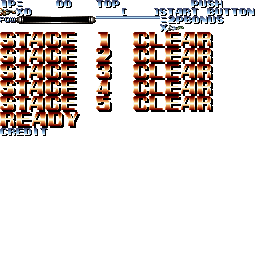
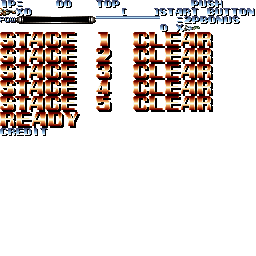
Update Module UI
Added lives  and converter int to str

Changed region(s): [[0.625, 0.0625, 0.8125, 0.125], [0.8438, 0.0625, 0.9375, 0.0938]]

diff --git a/Code/LastResortCode/ModuleUI.cpp b/Code/LastResortCode/ModuleUI.cpp
@@ -9,11 +9,12 @@
 #include "Player2.h"
 #include "ModuleInput.h"
 #include "ModuleFonts.h"
-#include "string.h"
+#include <stdio.h>
+
 
 ModuleUI::ModuleUI() {
-	lives_score_p1 = { 0,0,24,16};
-	live_score_p2 = { 160,16,24,16};
+	lives_score_p1 = { 0,0,32,16};
+	live_score_p2 = { 160,16,40,16};
 	pow = { 0,16,96,8};
 	push_p2= { 159,0,96,16 };
 	top = { 96,0,63,16};
@@ -25,12 +26,10 @@ bool ModuleUI::Start() {
 	LOG("Loading Module UI assets");
 	bool ret = true;
 	//Fonts-------------------------------------------------------------------------
-	App->fonts->Load("Assets/Fonts/blue_chars.png", "0123456789^[]ABCDEFGHIJKLMNOPQRSTUVWXYZ_-.,&#", 1); //font id = 0
+	App->fonts->Load("Assets/Fonts/blue_chars.png", "0123456789[]ABCDEFGHIJKLMNOPQRSTUVWXYZ_-.,&#", 1); //font id = 0
 	//textures----------------------------------------------------------------------
 	uiTex = App->textures->Load("Assets/UI.png");
-	//audios------------------------------------------------------------------------
 
-	//------------------------------------------------------------------------------
 	return ret;
 }
 
@@ -53,14 +52,44 @@ update_status  ModuleUI::PreUpdate() {
 }
 
 update_status ModuleUI::Update() {
+	str_score_p1 = new char[MAX_NUMBERS_SCORE];
+	str_score_p2 = new char[MAX_NUMBERS_SCORE];
+	str_lives_p1 = new char[1];
+	str_lives_p2 = new char[1];
 
+	lives_p1 = App->player1->lives;
+	snprintf(str_lives_p1, 4 * sizeof(str_lives_p1), "%d", lives_p1);
 
+	lives_p2 = App->player2->lives;
+	snprintf(str_lives_p2, 4 * sizeof(str_lives_p2), "%d", lives_p2);
 
+	score_p1 = App->player1->score;
+	snprintf(str_score_p1, 4 * sizeof(str_score_p1), "%d", score_p1);
+
+	score_p2 = App->player1->score;
+	snprintf(str_score_p2, 4 * sizeof(str_score_p2), "%d", score_p2);
+
+	//Static UI-----------------------------------------------------
 	App->render->Blit(uiTex, 16, 16, &lives_score_p1, 0.0f);
 	App->render->Blit(uiTex, 256, 16, &live_score_p2, 0.0f);
-	/*App->render->Blit(uiTex, 192, 16, &push_p2, 0.0f);*/
 	App->render->Blit(uiTex, 112, 16, &top, 0.0f);
 	App->render->Blit(uiTex, 24, 208, &pow, 0.0f);
 	App->render->Blit(uiTex, 184, 208, &pow, 0.0f);
+	/*App->render->Blit(uiTex, 192, 16, &push_p2, 0.0f);*/ //push button p2
+    //Variable UI----------------------------------------------------
+	App->fonts->BlitText(48, 24, 0, str_lives_p1);
+	App->fonts->BlitText(264, 24, 0, str_lives_p2);
+	App->fonts->BlitText(264, 24, 0, str_score_p1);
+	App->fonts->BlitText(264, 24, 0, str_score_p2);
+
+	delete[](str_score_p1);
+	delete[](str_score_p2);
+	delete[](str_lives_p1);
+	delete[](str_lives_p2);
+	str_score_p1 = nullptr;
+	str_score_p2 = nullptr;
+	str_lives_p1 = nullptr;
+	str_lives_p2 = nullptr;
+
 	return UPDATE_CONTINUE;
 }

diff --git a/Code/LastResortCode/ModulePlayer.cpp b/Code/LastResortCode/ModulePlayer.cpp
@@ -27,19 +27,15 @@ bool ModulePlayer::Start()
 	canMove = false;
 	canShoot = false;
 	isDying = false;
-
-	
 	shipAnimations = ShipAnimations::Initial;
 	start_time = SDL_GetTicks();
 	//textures-----------------------------------------------------------------------
 	PlayerTexture = App->textures->Load("Assets/SpaceShip_player1.png"); // arcade version																 
-	//audios-------------------------------------------------------------------------
-
 	//colliders----------------------------------------------------------------------
 	playerCol = App->collision->AddCollider({ position.x, position.y, 32, 12 }, colType, this);
 	//animations-----------------------------------------------------------------------
 	deathAnim.Reset();
-	FadeToBlackAlfa = 0;
+	
 	return ret;
 }
 
@@ -48,10 +44,17 @@ bool ModulePlayer::CleanUp()
 	LOG("Unloading player assets");
 	//textures------------------------------------------------------------------
 	App->textures->Unload(PlayerTexture);
-	//audios------------------------------------------------------------------
-
-
 	return true;
+}
+
+void ModulePlayer::Reappear() {
+	isShooting = false;
+	shoot = false;
+	canMove = false;
+	canShoot = false;
+	shipAnimations = ShipAnimations::Initial;
+	start_time = SDL_GetTicks();
+	deathAnim.Reset();
 }
 
 update_status ModulePlayer::PreUpdate()
@@ -66,6 +69,8 @@ update_status ModulePlayer::PreUpdate()
 
 update_status ModulePlayer::Update()
 {
+	//Timer----------------------------------------------------------------------------
+	current_time = SDL_GetTicks() - start_time; //Delete if it has not use
 	//Debug Modes----------------------------------------------------------------------
 	if (App->input->keyboard[SDL_SCANCODE_M] == KEY_STATE::KEY_DOWN && !isDying)
 	{
@@ -80,8 +85,6 @@ update_status ModulePlayer::Update()
 			godMode = true;
 		}
 	}
-	//Timer----------------------------------------------------------------------------
-	current_time = SDL_GetTicks() - start_time; //Delete if it has not use
 	//Shots----------------------------------------------------------------------------
 	if (canShoot == true) {
 		ShotInput();
@@ -89,8 +92,8 @@ update_status ModulePlayer::Update()
 	//Lock the unit--------------------------------------------------------------------
 	if (Lock())
 	{
-		if (locked == true) { locked = false; }
-		else { locked = true; }
+		if (unit_locked == true) { unit_locked = false; }
+		else { unit_locked = true; }
 	}
 	//Collision------------------------------------------------------------------------
 	playerCol->SetPos(position.x, position.y); //We update the collider position

diff --git a/Code/LastResortCode/ModulePlayer.h b/Code/LastResortCode/ModulePlayer.h
@@ -25,6 +25,9 @@ public:
 	void MovementInput(); //Added 
 	void ShotInput(); //Added 
 	void OnCollision(Collider*, Collider*);
+	void Reappear();
+
+
 	//Functions that will be rewritten in each player
 	//virtual void LoadSprites();
 	virtual bool MoveUp() = 0;
@@ -57,17 +60,17 @@ public:
 	//--------Gameplay-----------------------------
 	int score;
 	int lives;
-	//--------Time---------------------------------
-	//Time variables
-	Uint32 start_time;
-	Uint32 current_time;
-	//--------Debug Modes--------------------------
-	bool godMode;
 	//--------States--------------------------------
 	bool isAppearing;
 	bool isDying;
 	bool isShooting = false;
 	bool shoot = false;
+	bool unit_locked = false;
+	//--------Debug Modes--------------------------
+	bool godMode;
+	//--------Time---------------------------------
+	Uint32 start_time;
+	Uint32 current_time;
 	//--------Movment------------------------------
 	iPoint position;
 	float const movementSpeed = 2;
@@ -82,7 +85,7 @@ public:
 	float const transitionLimit = 0.5f;//This indicates when the ship will transition from its idle animation to its transition animation
 	float const MaxLimit = 0.90f;//This indicates when the ship will transition from its transition animation to its max animation
 
-	bool locked = false;
+	
 
 	enum ShipFrames
 	{

diff --git a/Code/LastResortCode/ModuleGameTitle.cpp b/Code/LastResortCode/ModuleGameTitle.cpp
@@ -34,8 +34,6 @@ bool ModuleGameTitle:: Start()
 	//audios--------------------------------------------------------------------------------
 	Titlemusic=App->audio->LoadMUS("Assets/LastResortTitle/02-LAST-RESORT-TITLE.ogg");
 	App->audio->ControlMUS(Titlemusic, PLAY_AUDIO);
-	App->player1->lives = 2;
-
 	App->render->camera.x = 0;
 	App->render->camera.y = 0;
 	
@@ -69,6 +67,7 @@ bool ModuleGameTitle::CleanUp() {
 	//audios------------------------------------------------------------------------
 	App->audio->ControlMUS(Titlemusic, STOP_AUDIO);
 	App->audio->UnloadMUS(Titlemusic);
+
 	return true;
 }
 update_status ModuleGameTitle::Update() {

diff --git a/Code/LastResortCode/ModuleUI.h b/Code/LastResortCode/ModuleUI.h
@@ -23,13 +23,17 @@ public:
 
 
 public:
-	char str_score_p1[MAX_NUMBERS_SCORE];
-	char str_score_p2[MAX_NUMBERS_SCORE];
+	char *str_score_p1= nullptr;
+	char *str_score_p2 = nullptr;
+	char *str_lives_p1 = nullptr;
+	char *str_lives_p2 = nullptr;
 	int score_p1;
 	int score_p2; 
 	int lives_p1;
 	int lives_p2;
+	int credits;
 
+	bool showUI = true;
 
 	SDL_Texture *uiTex = nullptr;
 	SDL_Rect lives_score_p1;

diff --git a/Code/LastResortCode/ModuleUnit.cpp b/Code/LastResortCode/ModuleUnit.cpp
@@ -214,7 +214,7 @@ update_status ModuleUnit::Update()
 	moving = false;
 
 	//- Check if the ball is locked
-	if(playerToFollow->locked == false)
+	if(playerToFollow->unit_locked == false)
 	{
 		//Conditions for movement-----------------------------------------------------------------------------
 		if (playerToFollow->MoveLeft() == true)

diff --git a/Code/LastResortCode/ModuleFonts.cpp b/Code/LastResortCode/ModuleFonts.cpp
@@ -101,7 +101,7 @@ void ModuleFonts::BlitText(int x, int y, int font_id, const char* text) const
 				//We blit the letter
 				rect.x = j * font->char_w;
 				rect.y = 0;
-				App->render->Blit(font->graphic, x, y, &rect, 1.0f);
+				App->render->Blit(font->graphic, x, y, &rect, 0.0f);
 				//And we go to the next one
 				break;
 			}
